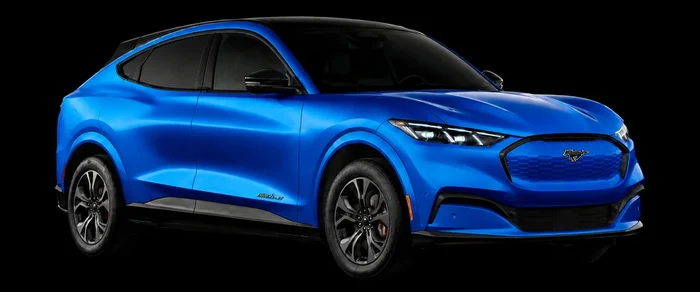
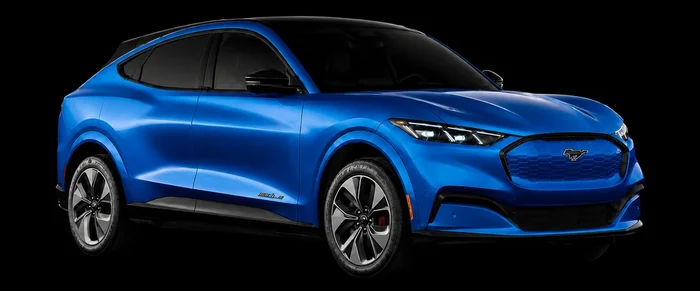
Garage: BMW y Mustang nuevos, y verificacion analitica del choque
Se reemplazan las fotos del BMW (dos veces: 06_14_46 y despues
06_19_40, que es la que queda) y del Mustang (06_12_13). Las cuatro se
reconstruyen desde el origen porque el recorte tiene que ser COMUN:
si cada una se recortara con su propia caja, se perderia la linea de
piso compartida.

El fondo de las nuevas vuelve a dar maximo 1 sobre 255.

VERIFICACION ANALITICA EN LUGAR DE MEDIR EN EL NAVEGADOR. El panel del
navegador dejo de renderizar a mitad de la sesion —devolvia estilos
calculados del estado ANTERIOR, congelados, y capturas en negro— asi
que medir ahi habria dado falsos positivos. Se comprueban en cambio las
CUATRO rotaciones con los extremos reales de cada auto dentro de su
lienzo, que es un calculo determinista:

  escritorio  peor hueco 3.64%   peor margen 2.60%
  movil       peor hueco 2.02%   peor margen 1.45%

Ambos positivos en las cuatro posiciones: ningun vecino toca al auto
central y ninguno queda cortado por el borde del escenario.

diff --git a/public/index.html b/public/index.html
@@ -2884,28 +2884,28 @@ body.is-dark.is-scrolled #topbar{
         <picture>
           <source media="(max-width:767px)" srcset="assets/grupos/alta-gama@sm.webp">
           <img src="assets/grupos/alta-gama.webp" alt="Mercedes-AMG GLE 63 Coupé blanco"
-               loading="lazy" decoding="async" width="1100" height="459">
+               loading="lazy" decoding="async" width="1100" height="458">
         </picture>
       </div>
       <div class="gar-auto">
         <picture>
           <source media="(max-width:767px)" srcset="assets/grupos/deportivos@sm.webp">
           <img src="assets/grupos/deportivos.webp" alt="BMW M240i violeta"
-               loading="lazy" decoding="async" width="1100" height="459">
+               loading="lazy" decoding="async" width="1100" height="458">
         </picture>
       </div>
       <div class="gar-auto">
         <picture>
           <source media="(max-width:767px)" srcset="assets/grupos/evolution@sm.webp">
           <img src="assets/grupos/evolution.webp" alt="Ford Mustang Mach-E azul"
-               loading="lazy" decoding="async" width="1100" height="459">
+               loading="lazy" decoding="async" width="1100" height="458">
         </picture>
       </div>
       <div class="gar-auto">
         <picture>
           <source media="(max-width:767px)" srcset="assets/grupos/urbanos@sm.webp">
           <img src="assets/grupos/urbanos.webp" alt="MINI Cooper S rojo"
-               loading="lazy" decoding="async" width="1100" height="459">
+               loading="lazy" decoding="async" width="1100" height="458">
         </picture>
       </div>
     </div>
